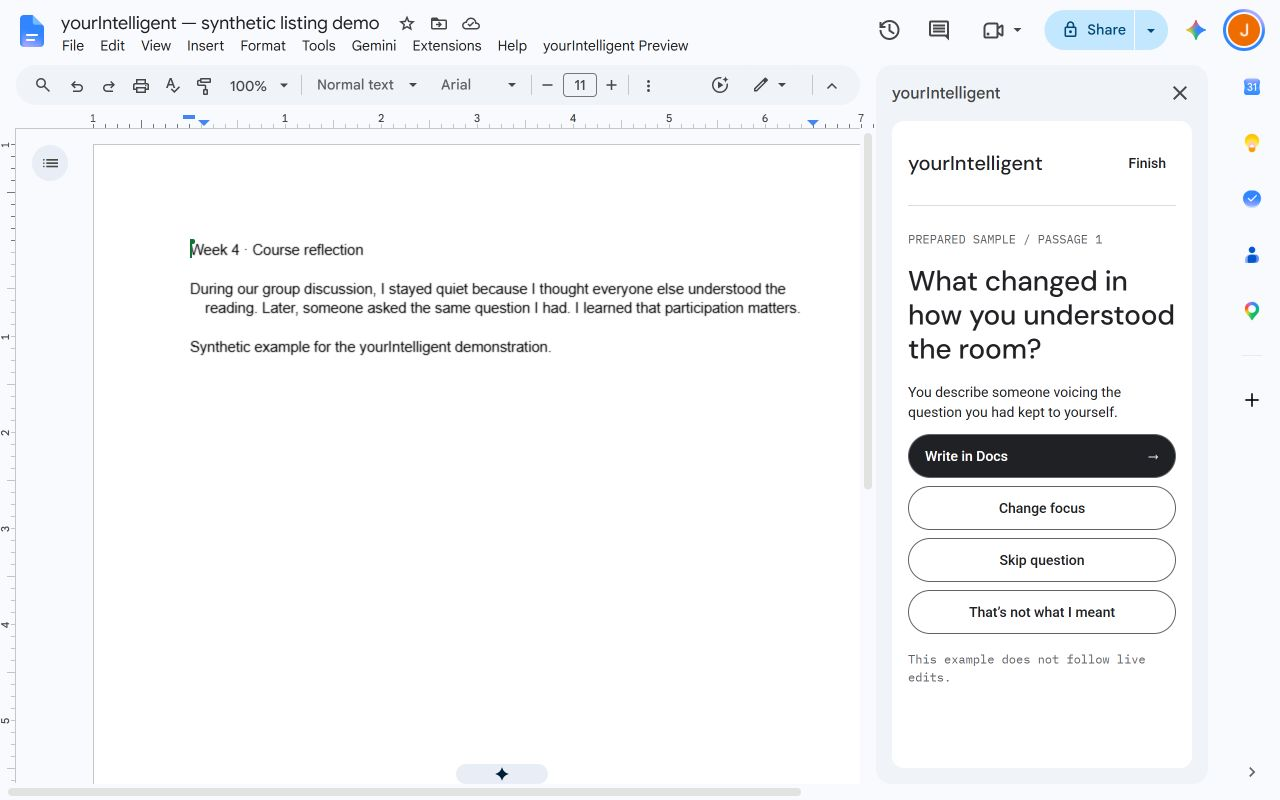
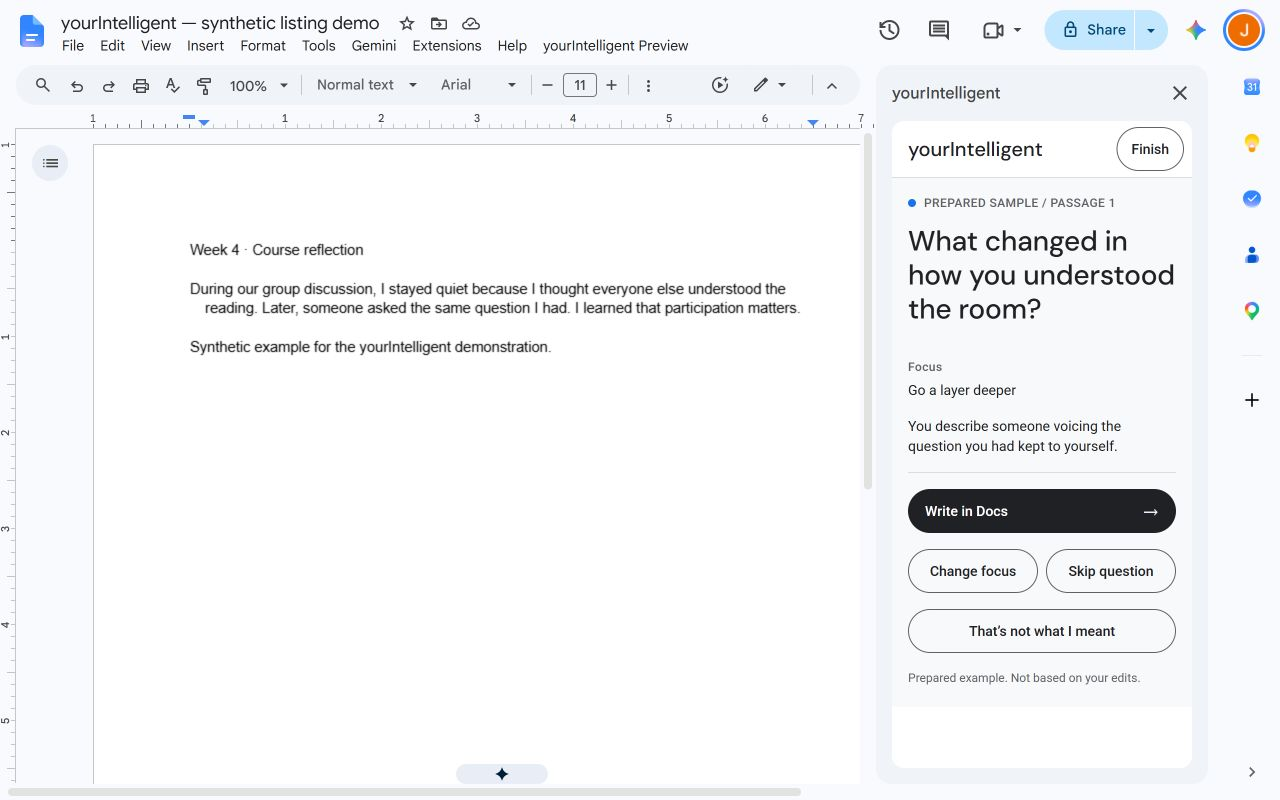
Package redesigned release candidate and refresh Marketplace screenshots

Changed region(s): [[0.6875, 0.25, 0.9375, 0.875], [0.6875, 0.1562, 0.8125, 0.2188], [0.875, 0.1562, 0.9375, 0.2188]]

diff --git a/CASE-STUDY.md b/CASE-STUDY.md
@@ -57,7 +57,7 @@ A separate Aion Labs build exercised the synthetic test loop before Gemini verif
 
 ## What remains before launch
 
-Host edge cases and accessibility, broader synthetic coaching evaluation, provider data-use alignment, remaining OAuth/Marketplace reviews and independent-account installation. A store listing with assets and synthetic screenshot is saved as a draft, not submitted. The [product and policy/support website](https://johnsampangcustodio.github.io/yourIntelligent/) is live on GitHub Pages; this is separate from public add-on availability. Public-release status must stay explicit until a real listing exists and a second account can use it.
+The remaining publishing work is Google branding/OAuth verification, Marketplace review and public installation. The current version-2 configuration and three redesigned screenshots are saved as drafts, not submitted. Additional host/accessibility and coaching-evaluation items remain documented; the founder chose to continue packaging without another test round and not to pursue provider-policy clarification. The [product and policy/support website](https://johnsampangcustodio.github.io/yourIntelligent/) is live on GitHub Pages; this is separate from public add-on availability. No public add-on availability is claimed.
 
 The next research stage is voluntary student use with recent reflection drafts: do students understand and endorse their revision choices, can they reject unhelpful questions, and is the extra effort worthwhile? Faster completion, ownership, learning and enjoyment are separate outcomes to investigate. No student findings or psychological benefits are claimed yet.
 
@@ -72,3 +72,17 @@ This draft is editable source, not a finished visual portfolio. Add real synthet
 ![Prepared feedback in the actual Google Docs sidebar](docs/listing-assets/docs-prepared-sample-1280x800.jpg)
 
 Captured from the real bound development preview in a separate synthetic document. The feedback is visibly a prepared sample, not a claimed live model response. Founder-reported live Gemini acceptance is documented separately. This image does not establish public installation or student outcomes.
+
+The screenshot above now shows the implemented Margin / Cut redesign. The frozen review candidate is Apps Script version 2, based on app commit 3bdb37a; public review remains pending. The publisher draft targets that version. No new live-model or student-evaluation claim is made by packaging it.
+
+### Start with the student's writing
+
+![Redesigned selection state inside Google Docs](docs/listing-assets/docs-select-1280x800.jpg)
+
+The first action captures a preview. The document remains the writing surface; the sidebar does not generate an assignment draft or edit the document.
+
+### A new passage needs a new decision to send
+
+![Refreshed local sample preview, not sent](docs/listing-assets/docs-revision-preview-1280x800.jpg)
+
+This image follows the local sample practice path. The sidebar's practice passage was revised while the document body retains the initial synthetic example. Passage 2 is visibly Not sent; earlier feedback belongs to Passage 1. This illustrates the implemented version/context boundary without claiming a live model comparison or before/after learning result.

diff --git a/ORCHESTRATOR-PLAN.md b/ORCHESTRATOR-PLAN.md
@@ -327,3 +327,9 @@ Founder redirected work to design before completing branding/OAuth verification 
 Founder explicitly requested implementation rather than further plan approval. Rebuilt the actual sidebar's shell, hero/task zones, status, passage preview, lens controls, actions and key form using current Margin / Cut composition and confirmed light-showcase controls. Shortened task copy; retained actual question while writing; added distinct refreshed preview, pending-reading screen, redirection and cause-specific recovery. Added bounded CSS motion with reduced-motion overrides. Preserved native Apps Script/provider interfaces, explicit send, current-passage-only payload and stale-result guards. Pending completion offers View reading without navigating out of writing.
 
 31 automated tests, strict typecheck and standalone/bound builds pass. Uploaded both developer scripts. Observed redesigned Select, sample Preview and prepared Feedback inside the standalone Editor add-on in real Docs. See docs/design-refresh/README.md and screenshots. No new live Gemini request or public submission was performed. D1–D4 code is implemented; full per-state visual comparison, reduced-motion/zoom manual acceptance and redesigned live Gemini loop remain, along with D5 release-candidate/listing refresh. Next: founder visual feedback and one redesigned live loop before updating review assets and resuming publishing work.
+
+### Launch package refreshed — November 9, 2026
+
+Founder declined another verification round and authorized the next launch-packaging slice. No extra live Gemini call, founder test request or app-code change. Created immutable Apps Script **version 2** from redesigned app commit **3bdb37a**; saved Marketplace App Configuration targeting version 2. Updated the copied synthetic demo's bound script to the same sidebar source and captured three direct 1280×800 real-Docs JPEGs: prepared feedback, selection and refreshed local sample preview. Replaced the old primary screenshot and added the other two to the store listing; observed **Draft saved** and disabled Save Draft. Existing icons/card retained because they already match the scheme.
+
+Updated the case-study images/captions and release package. Archived version-1 metadata, recorded version-2 source/local artifact hashes and saved-draft status in docs/RELEASE-CANDIDATE.json and docs/releases/0.1.0-candidate-2.json. Screenshots are explicitly sample evidence, not a new live response or student research. Google review submission was not performed. The founder's latest direction supersedes treating free-tier-policy outreach or another test round as the immediate next task; the inquiry remains unsent and no compliance claim was made. Next slice: resume Google branding/OAuth work, then Marketplace review submission as the remaining publishing steps.

diff --git a/docs/listing-assets/README.md b/docs/listing-assets/README.md
@@ -14,4 +14,18 @@ Built with `python scripts/build-listing-assets.py` using Pillow and fonttools. 
 
 These graphics are not product screenshots. The full-bleed Docs screenshot is now docs-prepared-sample-1280x800.jpg. It shows the actual sidebar in a separately copied, private document whose visible body was replaced with synthetic text. The displayed feedback is explicitly labeled Prepared sample; it is not claimed to be a live model response. No key is visible. The image was captured directly at 1280×800 with no image editing, padding or overlays. The bound-preview menu is visible; this demonstrates the real host UI rather than public installation. Keep this distinction in the case study. Do not present localhost or invented UI as live integration evidence.
 
+## Redesigned launch set — November 9, 2026
+
+| Order | File | What it shows |
+|---|---|---|
+| 1 | docs-prepared-sample-1280x800.jpg | Current question-led feedback, focus, observation and student actions; replaces the old flat-sidebar screenshot |
+| 2 | docs-select-1280x800.jpg | Current first-use design, local-preview boundary, sample/privacy actions |
+| 3 | docs-revision-preview-1280x800.jpg | A revised local sample marked Passage 2 / Not sent, current focus and explicit next action |
+
+All three are direct 1280×800 JPEG browser captures with square corners and no overlays, padding or image manipulation. They use the updated bound script in the existing synthetic listing-demo copy. The third image demonstrates the sample practice path: its local practice passage was changed; the Docs body remains the initial synthetic example. It does not claim real selected-text capture or a live second reading. No credentials or original student/founder writing appear. File dimensions and format were inspected without editing images.
+
+The prior icon/banner designs already use the current scheme; no new logo or identity change is introduced by this packaging pass.
+
+All three current screenshots were uploaded in the order above and saved to the Marketplace listing draft. Google returned Draft saved; Save Draft became disabled. The App Configuration was separately saved with Apps Script version 2. The Submit for Review button was not used. Private console evidence remains ignored under docs/local-console/.
+
 Official requirements checked November 9, 2026: [Marketplace listing assets](https://developers.google.com/workspace/marketplace/create-listing).

diff --git a/docs/RELEASE-PACKAGE.md b/docs/RELEASE-PACKAGE.md
@@ -2,6 +2,14 @@
 
 Status: preparation, not submitted or publicly deployed. Publisher: **John Phillip Custodio**. Student support destination: [LinkedIn](https://www.linkedin.com/in/johnphillipcustodio/). Public personal-account distribution and individual installation are the intended audience.
 
+## Current candidate — November 9, 2026
+
+Apps Script immutable version **2** packages the redesigned sidebar from application commit **3bdb37a**, description `0.1.0 design release candidate; app 3bdb37a; Gemini; not public`. The Marketplace App Configuration was saved with script version 2. Version 1 is retained as a historical candidate; it is not the current listing target. Current hashes/status are in [RELEASE-CANDIDATE.json](RELEASE-CANDIDATE.json); the previous metadata is archived under [releases/0.1.0-candidate-1.json](releases/0.1.0-candidate-1.json).
+
+The current launch-image set is real Docs UI at 1280×800: redesigned prepared feedback, first selection screen and refreshed local sample preview. All three were uploaded to the Marketplace draft in that order; Google returned **Draft saved** and disabled Save Draft. The copied synthetic document's bound script was updated to the same sidebar source. No key or live provider call is used. Existing icons/card already match the charcoal/near-white/blue design and remain unchanged. See [asset provenance](listing-assets/README.md).
+
+Founder requested launch packaging without another verification round. The existing 31-test/typecheck/build results remain the app evidence; no code changed or additional live test was requested during packaging. The founder also chose not to pursue provider-policy clarification. The inquiry remains unsent and no compliance conclusion is claimed. Google branding/OAuth and Marketplace review remain pending for the following slice. Sections below record earlier setup history; this current-candidate section and JSON supersede old version/test-count/next-step references.
+
 ## Listing copy
 
 Name: **yourIntelligent**
